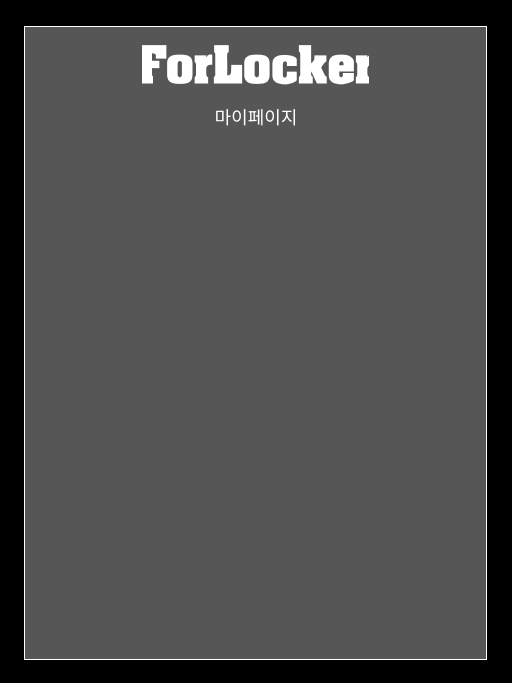
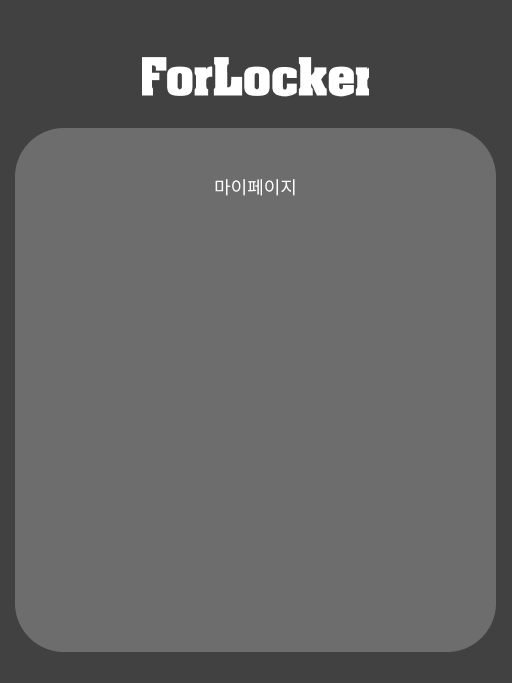
디자인 최종 수정

Changed region(s): [[0.0, 0.0, 1.0, 1.0], [0.4062, 0.246, 0.5625, 0.3075]]

diff --git a/Project/src/com/javalec/base/FindId.java b/Project/src/com/javalec/base/FindId.java
@@ -28,6 +28,7 @@ import java.util.regex.Matcher;
 import java.util.regex.Pattern;
 import java.awt.event.FocusAdapter;
 import java.awt.event.FocusEvent;
+import java.awt.SystemColor;
 
 public class FindId extends JDialog {
 	
@@ -86,8 +87,9 @@ public class FindId extends JDialog {
 	private JLabel getLbBack() {
 		if (lbBack == null) {
 			lbBack = new JLabel("");
-			lbBack.setBounds(0, 0, 512, 655);
-			lbBack.setIcon(new ImageIcon(Main.class.getResource("/com/javalec/images/idsmallFont.png")));
+			lbBack.setBackground(SystemColor.window);
+			lbBack.setBounds(0, -27, 512, 683);
+			lbBack.setIcon(new ImageIcon(FindId.class.getResource("/com/javalec/images/FindId.png")));
 		}
 		return lbBack;
 	}
@@ -129,7 +131,7 @@ public class FindId extends JDialog {
 			tfName.setText("이름 입력");
 			tfName.setForeground(Color.LIGHT_GRAY);
 			tfName.setColumns(10);
-			tfName.setBounds(57, 208, 416, 47);
+			tfName.setBounds(57, 260, 416, 47);
 		}
 		return tfName;
 	}
@@ -158,7 +160,7 @@ public class FindId extends JDialog {
 			});
 			tfPhone.setText("전화번호 입력");
 			tfPhone.setForeground(Color.LIGHT_GRAY);
-			tfPhone.setBounds(57, 267, 416, 47);
+			tfPhone.setBounds(57, 330, 416, 47);
 			tfPhone.setColumns(10);
 		}
 		return tfPhone;
@@ -187,7 +189,7 @@ public class FindId extends JDialog {
 			tfAddress.setText("주소 입력");
 			tfAddress.setForeground(Color.LIGHT_GRAY);
 			tfAddress.setColumns(10);
-			tfAddress.setBounds(57, 326, 416, 47);
+			tfAddress.setBounds(57, 400, 416, 47);
 		}
 		return tfAddress;
 	}
@@ -206,7 +208,7 @@ public class FindId extends JDialog {
 			});
 			lbOk.setForeground(Color.LIGHT_GRAY);
 			lbOk.setFont(new Font("Lucida Grande", Font.PLAIN, 15));
-			lbOk.setBounds(183, 500, 61, 16);
+			lbOk.setBounds(183, 550, 61, 16);
 		}
 		return lbOk;
 	}
@@ -216,7 +218,7 @@ public class FindId extends JDialog {
 			lblNewLabel_2.setHorizontalAlignment(SwingConstants.CENTER);
 			lblNewLabel_2.setForeground(Color.LIGHT_GRAY);
 			lblNewLabel_2.setFont(new Font("Lucida Grande", Font.PLAIN, 15));
-			lblNewLabel_2.setBounds(227, 500, 61, 16);
+			lblNewLabel_2.setBounds(227, 550, 61, 16);
 		}
 		return lblNewLabel_2;
 	}
@@ -231,7 +233,7 @@ public class FindId extends JDialog {
 			});
 			lbCancel.setForeground(Color.LIGHT_GRAY);
 			lbCancel.setFont(new Font("Lucida Grande", Font.PLAIN, 15));
-			lbCancel.setBounds(300, 500, 61, 16);
+			lbCancel.setBounds(300, 550, 61, 16);
 		}
 		return lbCancel;
 	}

diff --git a/Project/src/com/javalec/base/FindPw.java b/Project/src/com/javalec/base/FindPw.java
@@ -86,8 +86,8 @@ public class FindPw extends JDialog {
 	private JLabel getLbBack() {
 		if (lbBack == null) {
 			lbBack = new JLabel("");
-			lbBack.setBounds(0, 0, 512, 683);
-			lbBack.setIcon(new ImageIcon(Main.class.getResource("/com/javalec/images/pwsmallFont.png")));
+			lbBack.setBounds(0, -28, 512, 683);
+			lbBack.setIcon(new ImageIcon(FindPw.class.getResource("/com/javalec/images/FindPw.png")));
 		}
 		return lbBack;
 	}
@@ -129,7 +129,7 @@ public class FindPw extends JDialog {
 			tfId.setText("아이디 입력");
 			tfId.setForeground(Color.LIGHT_GRAY);
 			tfId.setColumns(10);
-			tfId.setBounds(57, 218, 416, 47);
+			tfId.setBounds(57, 250, 416, 47);
 		}
 		return tfId;
 	}
@@ -158,7 +158,7 @@ public class FindPw extends JDialog {
 			tfName.setText("이름 입력");
 			tfName.setForeground(Color.LIGHT_GRAY);
 			tfName.setColumns(10);
-			tfName.setBounds(57, 278, 416, 47);
+			tfName.setBounds(57, 310, 416, 47);
 		}
 		return tfName;
 	}
@@ -187,7 +187,7 @@ public class FindPw extends JDialog {
 			});
 			tfPhone.setText("전화번호 입력");
 			tfPhone.setForeground(Color.LIGHT_GRAY);
-			tfPhone.setBounds(57, 338, 416, 47);
+			tfPhone.setBounds(57, 370, 416, 47);
 			tfPhone.setColumns(10);
 		}
 		return tfPhone;
@@ -216,7 +216,7 @@ public class FindPw extends JDialog {
 			tfAddress.setText("주소 입력");
 			tfAddress.setForeground(Color.LIGHT_GRAY);
 			tfAddress.setColumns(10);
-			tfAddress.setBounds(57, 398, 416, 47);
+			tfAddress.setBounds(57, 430, 416, 47);
 		}
 		return tfAddress;
 	}
@@ -236,7 +236,7 @@ public class FindPw extends JDialog {
 			});
 			lbOk.setForeground(Color.LIGHT_GRAY);
 			lbOk.setFont(new Font("Lucida Grande", Font.PLAIN, 15));
-			lbOk.setBounds(183, 520, 61, 16);
+			lbOk.setBounds(183, 550, 61, 16);
 		}
 		return lbOk;
 	}
@@ -246,7 +246,7 @@ public class FindPw extends JDialog {
 			lblNewLabel_2.setHorizontalAlignment(SwingConstants.CENTER);
 			lblNewLabel_2.setForeground(Color.LIGHT_GRAY);
 			lblNewLabel_2.setFont(new Font("Lucida Grande", Font.PLAIN, 15));
-			lblNewLabel_2.setBounds(227, 520, 61, 16);
+			lblNewLabel_2.setBounds(227, 550, 61, 16);
 		}
 		return lblNewLabel_2;
 	}
@@ -261,7 +261,7 @@ public class FindPw extends JDialog {
 			});
 			lbCancel.setForeground(Color.LIGHT_GRAY);
 			lbCancel.setFont(new Font("Lucida Grande", Font.PLAIN, 15));
-			lbCancel.setBounds(300, 520, 61, 16);
+			lbCancel.setBounds(300, 550, 61, 16);
 		}
 		return lbCancel;
 	}

diff --git a/Project/src/com/javalec/base/Register.java b/Project/src/com/javalec/base/Register.java
@@ -97,8 +97,8 @@ public class Register extends JDialog {
 	private JLabel getLbBack() {
 		if (lbBack == null) {
 			lbBack = new JLabel("");
-			lbBack.setBounds(0, 0, 512, 655);
-			lbBack.setIcon(new ImageIcon(Main.class.getResource("/com/javalec/images/registersmallFont.png")));
+			lbBack.setBounds(0, -27, 512, 683);
+			lbBack.setIcon(new ImageIcon(Register.class.getResource("/com/javalec/images/Register.png")));
 		}
 		return lbBack;
 	}
@@ -126,7 +126,7 @@ public class Register extends JDialog {
 			});
 			tfId.setText("아이디 입력");
 			tfId.setForeground(Color.LIGHT_GRAY);
-			tfId.setBounds(57, 201, 416, 47);
+			tfId.setBounds(57, 210, 416, 47);
 			tfId.setColumns(10);
 		}
 		return tfId;
@@ -156,7 +156,7 @@ public class Register extends JDialog {
 					}
 				}
 			});
-			pw.setBounds(57, 260, 416, 47);
+			pw.setBounds(57, 270, 416, 47);
 		}
 		return pw;
 	}
@@ -178,7 +178,7 @@ public class Register extends JDialog {
 			tfPw.setText("비밀번호 입력");
 			tfPw.setForeground(Color.LIGHT_GRAY);
 			tfPw.setColumns(10);
-			tfPw.setBounds(57, 260, 416, 47);
+			tfPw.setBounds(57, 270, 416, 47);
 		}
 		return tfPw;
 	}
@@ -208,7 +208,7 @@ public class Register extends JDialog {
 			tfName.setText("이름 입력");
 			tfName.setForeground(Color.LIGHT_GRAY);
 			tfName.setColumns(10);
-			tfName.setBounds(57, 318, 416, 47);
+			tfName.setBounds(57, 330, 416, 47);
 		}
 		return tfName;
 	}
@@ -238,7 +238,7 @@ public class Register extends JDialog {
 			tfPhone.setText("전화번호 입력");
 			tfPhone.setForeground(Color.LIGHT_GRAY);
 			tfPhone.setColumns(10);
-			tfPhone.setBounds(57, 374, 416, 47);
+			tfPhone.setBounds(57, 390, 416, 47);
 		}
 		return tfPhone;
 	}
@@ -266,7 +266,7 @@ public class Register extends JDialog {
 			tfAddress.setText("주소 입력");
 			tfAddress.setForeground(Color.LIGHT_GRAY);
 			tfAddress.setColumns(10);
-			tfAddress.setBounds(57, 430, 416, 47);
+			tfAddress.setBounds(57, 450, 416, 47);
 		}
 		return tfAddress;
 	}
@@ -329,7 +329,7 @@ public class Register extends JDialog {
 				}
 			});
 			btnCheckDup.setBackground(Color.GRAY);
-			btnCheckDup.setBounds(393, 211, 71, 29);
+			btnCheckDup.setBounds(393, 220, 71, 29);
 		}
 		return btnCheckDup;
 	}

diff --git a/Project/src/com/javalec/base/ProductDetail.java b/Project/src/com/javalec/base/ProductDetail.java
@@ -269,7 +269,7 @@ public class ProductDetail extends JDialog {
 	private JLabel getLblNewLabel_2_1() {
 		if (lblNewLabel_2 == null) {
 			lblNewLabel_2 = new JLabel("New label");
-			lblNewLabel_2.setIcon(new ImageIcon(ProductDetail.class.getResource("/com/javalec/images/Product_new.png")));
+			lblNewLabel_2.setIcon(new ImageIcon(ProductDetail.class.getResource("/com/javalec/images/Product.png")));
 			lblNewLabel_2.setBackground(SystemColor.window);
 			lblNewLabel_2.setBounds(0, -28, 512, 683);
 		}

diff --git a/Project/src/com/javalec/base/MyPage.java b/Project/src/com/javalec/base/MyPage.java
@@ -179,7 +179,7 @@ public class MyPage extends JDialog {
 		getContentPane().add(getBtnPw());
 
 		JLabel lbBack = new JLabel("");
-		lbBack.setIcon(new ImageIcon(MyPage.class.getResource("/com/javalec/images/Group 38 (2).png")));
+		lbBack.setIcon(new ImageIcon(MyPage.class.getResource("/com/javalec/images/MyPage.png")));
 		lbBack.setVerticalAlignment(SwingConstants.TOP);
 		lbBack.setHorizontalAlignment(SwingConstants.CENTER);
 		lbBack.setFont(new Font("Lucida Grande", Font.PLAIN, 5));

diff --git a/Project/src/com/javalec/base/Product.java b/Project/src/com/javalec/base/Product.java
@@ -246,7 +246,7 @@ public class Product extends JDialog {
 		if (lblNewLabel_2 == null) {
 			lblNewLabel_2 = new JLabel("");
 			lblNewLabel_2.setBackground(SystemColor.window);
-			lblNewLabel_2.setIcon(new ImageIcon(Product.class.getResource("/com/javalec/images/Product_new.png")));
+			lblNewLabel_2.setIcon(new ImageIcon(Product.class.getResource("/com/javalec/images/Product.png")));
 			lblNewLabel_2.setBounds(0, -28, 512, 683);
 		}
 		return lblNewLabel_2;

diff --git a/Project/src/com/javalec/base/Purchase.java b/Project/src/com/javalec/base/Purchase.java
@@ -375,7 +375,7 @@ public class Purchase extends JDialog {
 		if (lbBackImage == null) {
 			lbBackImage = new JLabel("");
 			lbBackImage.setBounds(0, -28, 512, 683);
-			lbBackImage.setIcon(new ImageIcon(Purchase.class.getResource("/com/javalec/images/Product_new.png")));
+			lbBackImage.setIcon(new ImageIcon(Purchase.class.getResource("/com/javalec/images/Product.png")));
 		}
 		return lbBackImage;
 	}
